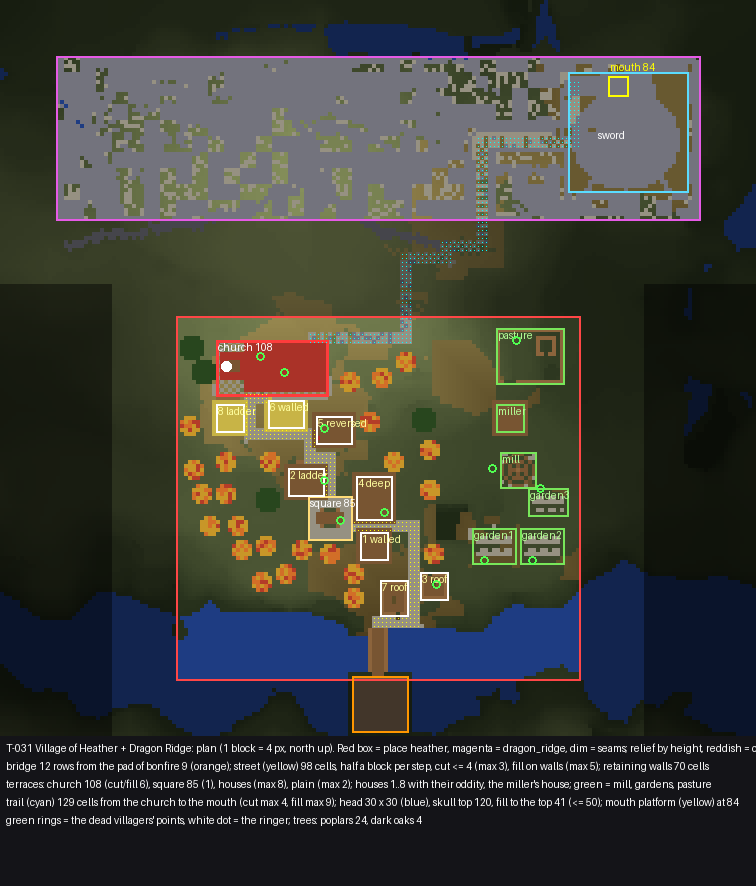
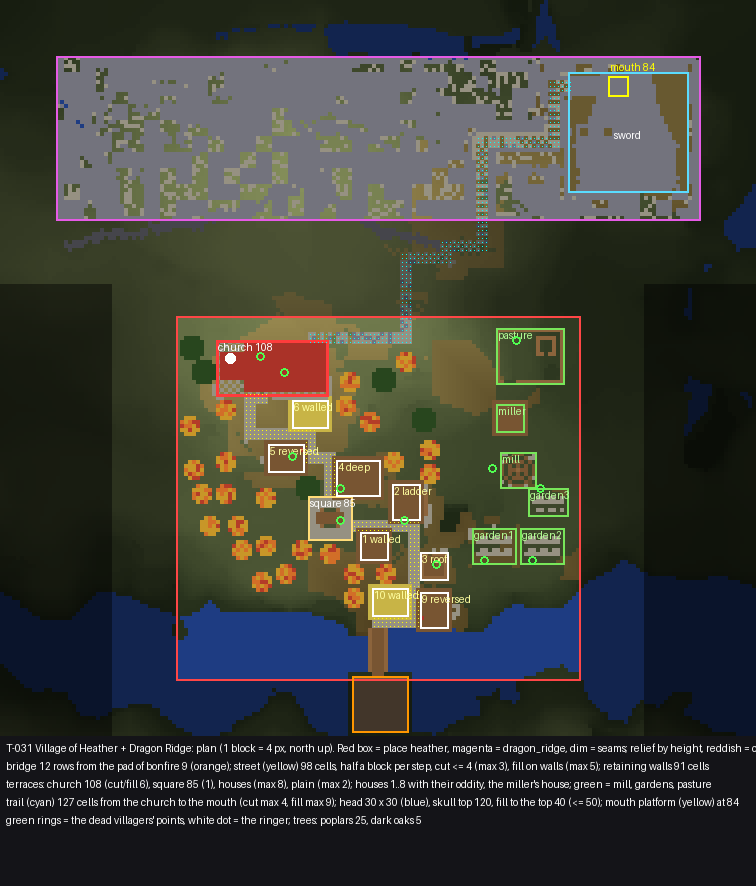
T-031: без перемычки над дверью в очаге, приставная лестница до уровня крыши, маршруты: старт на линии моста, старые файлы удаляются

diff --git a/tools/build/heather_build.py b/tools/build/heather_build.py
@@ -233,7 +233,7 @@ def flat_roof_house(b, f, L, ground_lo, sd, out):
     out["lantern"] = lit
     # the ladder up the left side wall (outside, u = -1), from the ground at the front to the roof; a gap in the parapet over it
     lw = 2
-    for y in range(L + 1, top + 2): put(b, f, -1, lw, y, "minecraft:ladder[facing=%s,waterlogged=false]" % f.d("left"))
+    for y in range(L + 1, top + 1): put(b, f, -1, lw, y, "minecraft:ladder[facing=%s,waterlogged=false]" % f.d("left"))   # up to the roof's level: from the roof one steps over it and climbs down
     put(b, f, 0, lw, top + 1, "minecraft:air")
     out["ladder"] = p3(f, -1, lw, L + 1); out["roof"] = p3(f, 1, lw, top + 1)
     # the table on the roof: 2 x 1 of spruce slabs (top) on fences? -> trapdoors as a table top, chairs (stairs) round it
@@ -325,6 +325,7 @@ def reversed_(b, f, L, du, out):
     put(b, f, du, bw - 1, L + 1, "minecraft:campfire[facing=%s,lit=false,signal_fire=false,waterlogged=false]" % f.d("out"))
     put(b, f, du, bw - 1, L + 2, "minecraft:air"); put(b, f, du, bw - 1, L + 3, "minecraft:air")
     put(b, f, du, bw, L + 1, door(f, "in", "lower", hinge="right", open_=True)); put(b, f, du, bw, L + 2, door(f, "in", "upper", hinge="right", open_=True))    # open: seen from the room as a doorway in the fire
+    put(b, f, du, bw, L + 3, "minecraft:air")          # no lintel: on the campfire one stands 7/16 higher (the head would hit it)
     for y in range(L + 1, L + 4): put(b, f, du, bw + 1, y, "minecraft:air")
     put(b, f, du, bw + 1, L, LO)
     out["back_door"] = p3(f, du, bw + 1, L + 1)

diff --git a/tools/build/heather_routes.py b/tools/build/heather_routes.py
@@ -67,7 +67,7 @@ def path(a, goal):
     out = []
     while end: out.append(c(end[0], end[1], end[2])); end = prev[end]
     return out[::-1]
-pad = (P.HEARTH[0] - 3, P.PAD[1] + 2, float(P.PAD_Y + 1))      # on the pad, north of the bonfire, west of the line of the bridge
+pad = (P.HEARTH[0], P.PAD[1] + 2, float(P.PAD_Y + 1))          # on the pad, north of the bonfire, on the line of the bridge
 sq = M["square"]; sL = M["sL"]; ch = M["church"]; L = ch["L"]; dx, dy, dz = ch["door"]
 wx, wy, wz = M["well"]
 rx, ry, rz = ch["ringer"]
@@ -106,6 +106,8 @@ if tr:
     app = [[p[0], p[1], p[2]] for p in prof]
     app = [app[0]] + app[1:-1][::4] + [app[-1]] + [c(70, P.PAD[3] - 1, P.PAD_Y + 1)]
     routes["h_approach"] = app; routes["h_approach_b"] = app[::-1]
+for f_ in os.listdir(OUT):                                   # the routes of an earlier layout go (heather_walk.sh walks every h_*.json)
+    if f_.startswith("h_") and f_.endswith(".json"): os.remove(os.path.join(OUT, f_))
 for n, pts in routes.items():
     s = pts[0]
     json.dump(dict(start=[s[0], s[2], s[1]], points=[[p[0], p[1], p[2]] for p in pts[1:]]), open(os.path.join(OUT, n + ".json"), "w"))

diff --git a/CLAUDE.md b/CLAUDE.md
@@ -366,9 +366,9 @@ Dark fantasy приключенческая карта для **Minecraft Java 2
 - Админ: `grove/status`, `grove/reset` (знакомство у всех снова, Советчик в кресло), `grove/faces_open`/`faces_close`, `grove/advisor_here` (стоит у игрока, без переходов) / `grove/advisor_free`. Тесты: `python3 tools/test_grove.py [build advisor day talk menu circle fade faces zones restart perf]` (Cam, Cam2; реальные клики `!use` по Советчику), бот `python3 tools/build/grove_routes.py` → `tools/build/grove_walk.sh` (`v_in`/`v_out` до обсерватории, `v_garden`, `v_approach`/`_b`), кадры `python3 tools/build/grove_shots.py`. ShotAgent: открытое окно `dialog` закрывает любое следующее действие агента (`!sneak_off`), не кадр `clean`.
 
 ## Деревня Вереск и Драконий Гребень (T-031)
-- Постройка — офлайн-шаг `tools/build/heather_step.sh` в `r1_apply.sh` после рощи (оба места одним шагом, имя в кеше мира — `heather`, `python3 tools/world_cache.py redo heather`): скан `heather_pre.bin` (−36…176 × −606…−399: обе коробки + швы + 10) → `python3 tools/build/r1_heather.py` → `gen_zones`/`gen_seer` → `terrain.sh apply` → `blockwriter.sh apply heather.txt` → скан `heather_post.bin` → `r1_check.py places heather+dragon_ridge` → `python3 tools/build/heather_check.py` (снег 0, ванильных деревьев в коробке деревни 0, BFS без прыжков от площадки костра № 9: мост, улица, площадь, каждый дом с его странностью, церковь, колокольня до звонаря, тропа до пасти; 6 кафедр, 2 сундука). Модули: `heather_plan.py` (земля до мест — `heather_before.npz`, первый скан; терраса церкви, площадь, A* улицы и тропы в полублоках, дома вдоль улицы, восточная равнина, курган головы, стоп-условия Штаба), `heather_build.py` (дома в своей рамке `Frame`: u вдоль фасада, w вглубь; странности, дом мельника, колодец, огороды, пастбище, мельница, церковь), `heather_ridge.py` (гребень, склоны, голова, меч, табличка), `heather_dp.py` (`function/heather/gen/*`, окна `dialog/heather/*`, крючок квеста), `heather_routes.py` + `heather_walk.sh` (бот), `heather_shots.py` (кадры). Повтор шага — 0 столбцов, вне мест — 0. Рельеф, который пишет шаг, — `server/build/r1/heather_T.npz` (по нему `heather_check`: скан читает крыши как землю).
-- **Рельеф (решение Штаба):** деревня на полке за ручьём (река уровня 62, дно 35…60 остаётся); мост `x 69…71` от северного края площадки (z −426) прямо на север до берега, настил поднимается на полблока за клетку (ели, полублоки), опоры и перила из тёмного дуба, табличка «Вереск» на западной стойке. Улица — A* по центру в полублоках (`astar`: 4 соседа, ±½ за клетку, после поворота ≥ 3 клетки прямо, без складок — шпильки дают перепад поперёк), врезка ≤ 4 (в поиске 3,5: запас на расширение), насыпь ≤ 8 с подпорными стенками (`WALL_AT` 3, бордюр из стенок камня); расширение до 3 — нижняя огибающая, соседние клетки ≤ ½. Берег у моста — обрыв 10 блоков на 3 клетки: улица уходит вдоль берега на восток по насыпи и поднимается к северу на `x 79`. Площадь 11×11 на 85, церковь — терраса 28×14 на **108** (поиск: наименьшая работа на ≥ 100 в северной трети, срезка/подсыпка 6). Дома — жадный подбор вдоль кромки улицы (дверь на улицу, пол = уровень улицы у двери, работа ≤ 8, 3 между домами). Восточная равнина (75…77): мельница, дом мельника, три огорода (террасы ≤ 2), пастбище по естественной земле. Провал (карстовая воронка ~35 глубиной у (88, −464)) засыпан как обычная земля деревни (не терраса).
-- **Дома:** 8 по улице + дом мельника. Странности (по одной на дом, повторы в другом размере и отделке): `walled` (дверь замурована, вход — окно 1×2 у земли со ступенькой), `ladder` (лестница в потолок; второй этаж по внешней лестнице вдоль правой стены, кровати «на стене» — шерсть у внутренней стороны стены), `roof` (плоская крыша с парапетом, стол и стулья, `ladder` по левой стене), `deep` (дом без пола: уступ у двери, марш вниз на 7 вдоль левой стены, внизу домик 5×5 с сундуком 1 и фонарём), `reversed` (очаг у двери, в задней стене кирпичный портал с `campfire[lit=false]` и дверью во двор). Дом мельника — дверь из тёмного дуба, изнутри заложена блоком (заказ «Вересковый волк» уберёт). **Окна горят без света внутри:** фонарь стоит в самом проёме окна (светит наружу), со стороны комнаты — `tinted_glass` (не пропускает свет): глубина комнаты — свет 0, спавн возможен. Фонарей 12 (8 окон, домик в подвале, мост, 2 на колокольне). Солома (`hay_block`) — на двух крышах без фонарей рядом.
+- Постройка — офлайн-шаг `tools/build/heather_step.sh` в `r1_apply.sh` после рощи (оба места одним шагом, имя в кеше мира — `heather`, `python3 tools/world_cache.py redo heather`): скан `heather_pre.bin` (−36…176 × −606…−399: обе коробки + швы + 10) → `python3 tools/build/r1_heather.py` → `gen_zones`/`gen_seer` → `terrain.sh apply` → `blockwriter.sh apply heather.txt` → скан `heather_post.bin` → `r1_check.py places heather+dragon_ridge` → `python3 tools/build/heather_check.py` (снег 0, ванильных деревьев в коробке деревни 0, BFS без прыжков от площадки костра № 9: мост, улица, площадь, каждый дом с его странностью, церковь, колокольня до звонаря, тропа до пасти; 6 кафедр, 2 сундука). Модули: `heather_plan.py` (земля до мест — `heather_before.npz`, первый скан; терраса церкви, площадь, A* улицы и тропы в полублоках, дома вдоль улицы, восточная равнина, курган головы, стоп-условия Штаба), `heather_build.py` (дома в своей рамке `Frame`: u вдоль фасада, w вглубь; странности, дом мельника, колодец, огороды, пастбище, мельница, церковь), `heather_ridge.py` (гребень, склоны, голова, меч, табличка), `heather_dp.py` (`function/heather/gen/*`, окна `dialog/heather/*`, крючок квеста), `heather_routes.py` + `heather_walk.sh` (бот: маршруты — A* по блокам с правилами `walkcheck`, только обратимые шаги, костёр — как полублок), `heather_shots.py` (кадры). Повтор шага — 0 столбцов, вне мест — 0. Рельеф, который пишет шаг, — `server/build/r1/heather_T.npz` (по нему `heather_check`: скан читает крыши как землю).
+- **Рельеф (решение Штаба):** деревня на полке за ручьём (река уровня 62, дно 35…60 остаётся); мост `x 69…71` от северного края площадки (z −426) прямо на север до берега, настил поднимается на полблока за клетку (ели, полублоки), опоры и перила из тёмного дуба, табличка «Вереск» на западной стойке. Улица — A* по центру в полублоках (`astar`: 4 соседа, ±½ за клетку, после поворота ≥ 3 клетки прямо, без складок — шпильки дают перепад поперёк), врезка ≤ 4 (в поиске 3,5: запас на расширение), насыпь ≤ 8 с подпорными стенками (`WALL_AT` 3, бордюр из стенок камня); расширение до 3 — нижняя огибающая, соседние клетки ≤ ½. Берег у моста — обрыв 10 блоков на 3 клетки: улица уходит вдоль берега на восток по насыпи и поднимается к северу на `x 79`. Площадь 11×11 на 85, церковь — терраса 28×14 на **108** (поиск: наименьшая работа на ≥ 100 в северной трети, срезка/подсыпка 6). Дома — жадный подбор вдоль кромки улицы (`HOUSES`, до `MAX_HOUSES` 9; дверь на улицу, пол на уровне улицы у двери или на полблока выше — дверь открывается с улицы на уровне глаз; работа ≤ 8, 2 между домами); входы снаружи (угол внешней лестницы, приставная лестница, окно-вход) — улица у фасада на уровне пола или ровный «фартук» (`apron`), у развёрнутого дома — двор за дверью в очаге. Восточная равнина (75…77): мельница, дом мельника, три огорода (террасы ≤ 2), пастбище по естественной земле. Провал (карстовая воронка ~35 глубиной у (88, −464)) засыпан как обычная земля деревни (не терраса).
+- **Дома:** 8 по улице + дом мельника (замурованных 3, развёрнутых 2, по одному с лестницей в потолок, со столом на крыше, без пола). Странности (по одной на дом, повторы в другом размере и отделке): `walled` (дверь замурована, вход — окно 1×2 у земли со ступенькой), `ladder` (лестница в потолок; второй этаж по внешней лестнице вдоль правой стены, кровати «на стене» — шерсть у внутренней стороны стены), `roof` (плоская крыша с парапетом, стол и стулья, `ladder` по левой стене), `deep` (дом без пола: уступ у двери, марш вниз на 7 вдоль левой стены, внизу домик 5×5 с сундуком 1 и фонарём), `reversed` (очаг у двери, в задней стене кирпичный портал с `campfire[lit=false]` и открытой дверью во двор). Дом мельника — дверь из тёмного дуба, изнутри заложена блоком (заказ «Вересковый волк» уберёт). **Окна горят без света внутри:** фонарь стоит в самом проёме окна (светит наружу), со стороны комнаты — `tinted_glass` (не пропускает свет): глубина комнаты — свет 0, спавн возможен. Фонарей 12 (8 окон, домик в подвале, мост, 2 на колокольне). Солома (`hay_block`) — на двух крышах без фонарей рядом.
 - **Церковь:** башня 7×7 на западе (вход из нефа аркой через обе стены), неф 19×11, ризница в северо-восточном углу (сундук 2, кафедра «Тойво»), скамьи развёрнуты к северной стене, алтарь на востоке. Лестница башни — квадратная спираль вокруг колодца 3×3 (угол — площадка, первая клетка у арки — площадка), площадка колокола на L+21, проём над последними ступенями открыт (3 блока над маршами), колокол висит на балке, звонарь на кольце у колокола; шпиль `brick_wall` до L+32.
 - **Хребет и голова:** гребень по линии максимумов массива (`ridge_axis`, сглаженная), позвонки 2…6 через 4…7 блоков (`cobbled_deepslate`/`tuff`), шея от плеча массива (x 98) к затылку; склоны места — палитра камня с пятнами сползшей земли. Голова 30×30 (x 118…147, z −576…−547) на кургане до 83 (1:1 вокруг), череп — поле высот (морда к северу 92→100, лоб, макушка ≈ 120, затылок, сечение `(dx/w)^3.5`), надбровья, ноздри, гребень, рога назад. Пасть открыта на север, площадка 5×5 на **84** (`MOUTH`), край — зубы: через клетку `dripstone_block` + `pointed_dripstone` base/tip вверх, между ними frustum + tip от пола (везде ≥ 1,5 коллизии, встать на край нельзя), сверху клыки вниз. Вход в пасть — проход 3×3 с запада (конец тропы `NECK_END` (117, −573)). Глаз — ниша с `tinted_glass` на западе под надбровьем; меч 36 (клинок 25, гарда 9, рукоять с `iron_chain` — в 26.3 `chain` переименован, навершие) вбит над глазом с наклоном 16° на запад. Табличка «Он дошёл до самой головы…» — на западной щеке у прохода (у основания клинка — на макушке, туда не дойти). Шаблоны `structure/heather/head.nbt`, `sword_lo|hi.nbt` (не используются датапаком, артефакт карточки).
 - **Тропа к пасти:** A* от северо-восточного угла террасы церкви по швам и месту Гребня (`in_village/in_ridge` с запасом `MARGIN−3`), ±½ за клетку, врезка/подсыпка ≤ 6 по земле с курганом головы, в голову — только через проход.

diff --git a/docs/reports/T-031-report.md b/docs/reports/T-031-report.md
@@ -9,4 +9,63 @@
 - В начале задачи архив был миром `main` до рощи (`c283800`); `status` показал режим `gen` (T-030 сменила `biomes/registry.json` и `paint.gen.json`), поэтому собран `tools/build/rebuild.sh --cache` (21 мин в облаке) для `main` `f695d90`, затем `world_cache.py push --bundle` (облачная сессия без права пуша): коммит архива `e7a6b98`, lease `b14d4a4`. Бандл отправлен Эдварду и выкладывается локальной сессией.
 - Сборка `--cache` дала другой вывод генератора рощи, чем закоммиченный в `main` (лица в тополях 2…5 на других тополях, зона `grove` до 194 вместо 181): закоммиченный вывод был от другого мира (контрольной сборки T-030), а в архиве теперь этот. Отдельный коммит ветки перегенерировал `grove/gen/faces_*`, шаблоны лиц, зоны и планы под мир архива — иначе датапак открывал бы лица не там.
 
-<!-- TBD: sections 1..7 -->
+## 1. Что сделано
+
+**Рельеф и план** (`docs/reports/T-031/heather_plan.png`; `python3 tools/build/r1_heather.py plan`). Стоп-условия раздела 1 не сработали:
+
+| Что | Задача | Получилось |
+| --- | --- | --- |
+| Террасы домов, огородов, мельницы, церкви, площади | ≤ 8 срезки/подсыпки | дома ≤ 8, церковь 6, площадь 1, мельница/огороды ≤ 2 |
+| Улица от моста до церкви | ½ на шаг, врезка ≤ 4 | 98 клеток по центру, врезка ≤ 3,5, насыпь ≤ 5,5 на подпорных стенках |
+| Голова | насыпь ≤ 50, в месте `dragon_ridge` с запасом 3 | тело черепа над естественной землёй ≤ 40 (курган до 83 + череп до 120); x 118…147, z −576…−547 |
+| Тропа к пасти | только места и швы | 127 клеток, все в `heather`/`dragon_ridge` и их швах; врезка в массив ≤ 4 |
+
+- **Мост**: от северного края площадки костра № 9 (z −426) прямо на север, x 69…71, 12 рядов, настил поднимается полублоками с 63 до 68, ель + тёмный дуб, перила, опоры до дна; ручей не засыпан (река уровня 62, дно 35…60 — стоячая вода не тронута).
+- **Улица** (одна, кривая): северный берег у моста — обрыв ~10 блоков на 3 клетки, поэтому от моста улица уходит вдоль берега на восток по насыпи (подпорная стенка со стороны реки), поворачивает на север по x 79 на полку, на запад к площади (11×11, 85, колодец), с площади на север, на запад и на север к церкви. Поиск — A* по центру в полублоках: ±½ за клетку, после поворота ≥ 3 клетки прямо, без «шпилек» (две полосы рядом дали бы ступень поперёк). Ширина 3, соседние клетки по всей ширине ≤ ½.
+- **Церковь** — на северном краю, выше всех: терраса 28×14 на **108** (поиск наименьшей работы на уровне ≥ 100; карточка писала 95…105, по сиду 108 — меньше всего земли). Шпиль виден от моста.
+- **Восточная равнина** (75…77): мельница с осью на южной стене (к мосту), дом мельника, три огорода, пастбище с загоном и 4 пугалами по естественной земле. Мельница и лес к востоку оставлены заказу («Вересковый волк»): деревья там не сажал.
+- **Деревья**: ванильные в коробке деревни убраны (11 389 блоков стволов и листвы), на местах старых деревьев — 24 тополя трёх цветов и 4 тёмных дуба; огороды, пастбище, улица — без деревьев. Снега в местах нет (0). Родников над землёй выше уровня реки нет (0).
+- **Карстовая воронка** у (88, −464) глубиной ~35 (по сиду) засыпана как обычная земля деревни — не терраса, но засыпка там > 8. Если её надо было оставить — вопрос ниже.
+
+**Дома** (8 по улице + дом мельника = 9): три с замурованной дверью (вход через окно 1×2 у земли, под окном ступенька), один с лестницей в потолок (второй этаж по внешней лестнице, кровати «застелены на стене» — белая шерсть подушкой, цветная одеялом, рамка из люка), один со столом на плоской крыше (стулья вокруг, приставная лестница), один без пола (уступ у двери, марш вниз на 7 вдоль стены, внизу домик 5×5 с фонарём и сундуком 1), два развёрнутых (очаг у двери, в задней стене кирпичный портал с `campfire[lit=false]` и открытой дверью во двор). Повторы — в другом размере (7×7 / 9×7 / 7×9) и отделке. Номера и места — на плане. Дом мельника обычный, дверь заложена изнутри блоком досок (заказ уберёт его).
+
+**Окна горят, глубина комнаты в тени.** Фонарь, стоящий в комнате 5×5, освещает её всю (свет 15 падает на 1 за блок) — «свет 0 в глубине» с фонарём внутри недостижим. Сделал так: фонарь стоит в самом проёме окна (светит наружу, окно горит с улицы), со стороны комнаты за ним — `tinted_glass` (видно, что фонарь горит, свет внутрь не проходит). В домах темно, спавн возможен. Фонарей 12 (8 окон, домик в подвале, мост, 2 на колокольне).
+
+**Церковь**: башня 7×7 на западе, неф 19×11, красная (кирпич 50 %, глиняный кирпич 30 %, каменный 20 %), крыша `deepslate_tile`, окна красного стекла. Скамьи развёрнуты к северной стене. Ризница — сундук 2 и кафедра «Тойво». Колокольня: спиральная лестница вокруг колодца 3×3 (марши по 3 ступени с площадками в углах, над маршами ≥ 3 блока), площадка колокола на 129, колокол на балке, два фонаря (свет ≥ 8 у звонаря), арки с парапетом из `brick_wall` (1,5), шпиль `brick_wall` до 140.
+
+**Хребет**: гребень по линии вершин массива, 22 позвонка 2…6 (`cobbled_deepslate`/`tuff`), шея от плеча массива к затылку головы; склоны места — камень карточки с пятнами сползшей земли и травы; массив не срезан (только тропа, врезка ≤ 4).
+
+**Голова** — утёс 30×30 на кургане (до 83, откосы 1:1), череп как у ящера: морда к северу, лоб, макушка ≈ 120, надбровья, ноздри, гребень, рога назад. Пасть открыта на север; низ пасти — площадка 5×5 на 84; край — зубы: через клетку `dripstone_block` + `pointed_dripstone` (основание и остриё вверх), между ними — сталагмит от пола; везде ≥ 1,5 высоты, встать на край нельзя; сверху висят клыки. Вход в пасть — проход 3×3 с запада (конец тропы). Глаз — ниша с `tinted_glass` на западной стороне под надбровьем. **Меч** 36 (клинок 25 — `polished_andesite`/`andesite` с ржавчиной `brown_terracotta`, гарда `polished_tuff` 9, рукоять `dark_oak_log` с цепями, навершие), вбит над глазом с наклоном 16° на запад, верх на 142. Шаблоны `structure/heather/head.nbt`, `sword_lo.nbt`, `sword_hi.nbt`.
+
+**Механика** (`function/heather/`): жители-зомби (12 точек: огороды ×3, мельница, колодец, скамьи ×2, пугало, порог, стол на крыше, уступ дома-в-доме, очаг), покой/пробуждение/возврат/рассвет; не горят днём; полночный колокол; звонарь с окнами и квестом; мельница; пугала; зоны `heather` и `heather_head`. Подробно — раздел T-031 в `CLAUDE.md`.
+
+- **Не горят днём — способ**: по коду 26.3 (`Mob.burnUndead`) зомби не поджигается солнцем, если в слоте головы что-то есть (неломаемое не портится). Всем зомби и жителям-зомби в коробке зоны `heather` без шлема надевается невидимая «шляпа» (`stick` с моделью `minecraft:empty`, без дропа); вне зоны снимается. Огонь игрока поджигает (проверено Пламенем ворожея). Биомный атрибут `monsters_burn` не взял: свой биом не нужен (карточка).
+- **«Раз в сутки»**: убитый возвращается на рассвете (0…1000) только следующего дня после гибели (убит на рассвете — ждёт следующего), если никого нет в 48.
+- **Полночь**: в 26.3 нет `time query daytime` — время суток берётся из `time query time` по модулю 24000. Колокол звонит, только если игрок ≤ 96 от колокола: с площадки костра № 9 (113 блоков) — не звонит, из деревни — звонит.
+
+## 2. Как проверено
+
+<!-- results -->
+
+## 3. Что отличается от задачи и почему
+
+- Церковь на 108, а не 95…105 (по сиду это наименьшая работа на северном краю; ниже — склон 1:1,2 и терраса не помещается в 8).
+- Улица на первом участке идёт вдоль берега по насыпи (до 5,5 над землёй) на подпорной стенке: по-другому от моста на полку не подняться с врезкой ≤ 4 (обрыв 10 блоков на 3 клетки). Врезка нигде не больше 3,5.
+- Табличка «Он дошёл до самой головы…» — не у основания клинка (он на макушке черепа, туда не дойти), а на западной щеке у входа в пасть, под мечом.
+- Площадка обзора на 84 (9 над равниной вокруг), а не выше: тропа от церкви (108) спускается к голове по склону, вход в пасть с запада на уровне площадки.
+- В доме «развёрнутом» огонь у двери горит (`lit=true`, обычный очаг); `lit=false` — в портале с дверью, через который ходят.
+- Дверь дома мельника не железная: дубовая, изнутри заложена блоком досок (заказ уберёт блок).
+- Вывод генератора рощи (`grove/gen/faces_*`, шаблоны лиц, зона `grove`) перегенерирован под мир архива (раздел 0).
+
+## 4. Что может проверить только живой игрок
+
+- Страшно ли и странно ли в деревне, или странности читаются как баги постройки (особенно «кровати на стене» и окно-вход).
+- Слышно ли полночный колокол из леса вокруг и понятно ли, что мертвецы замерли из-за него.
+- Виден ли меч Гребня с северных троп Дола; читается ли голова как голова дракона с юга (из деревни видно затылок и рога).
+- Не тесно ли в доме-в-доме и на спиральной лестнице колокольни.
+
+## 5. Вопросы
+
+1. Карстовую воронку (~35 глубиной, у (88, −464)) засыпал. Оставить её провалом (огородить) — или так и надо?
+2. Табличка меча — на щеке головы у входа в пасть. Устраивает, или поднять к основанию клинка отдельной площадкой?
+
